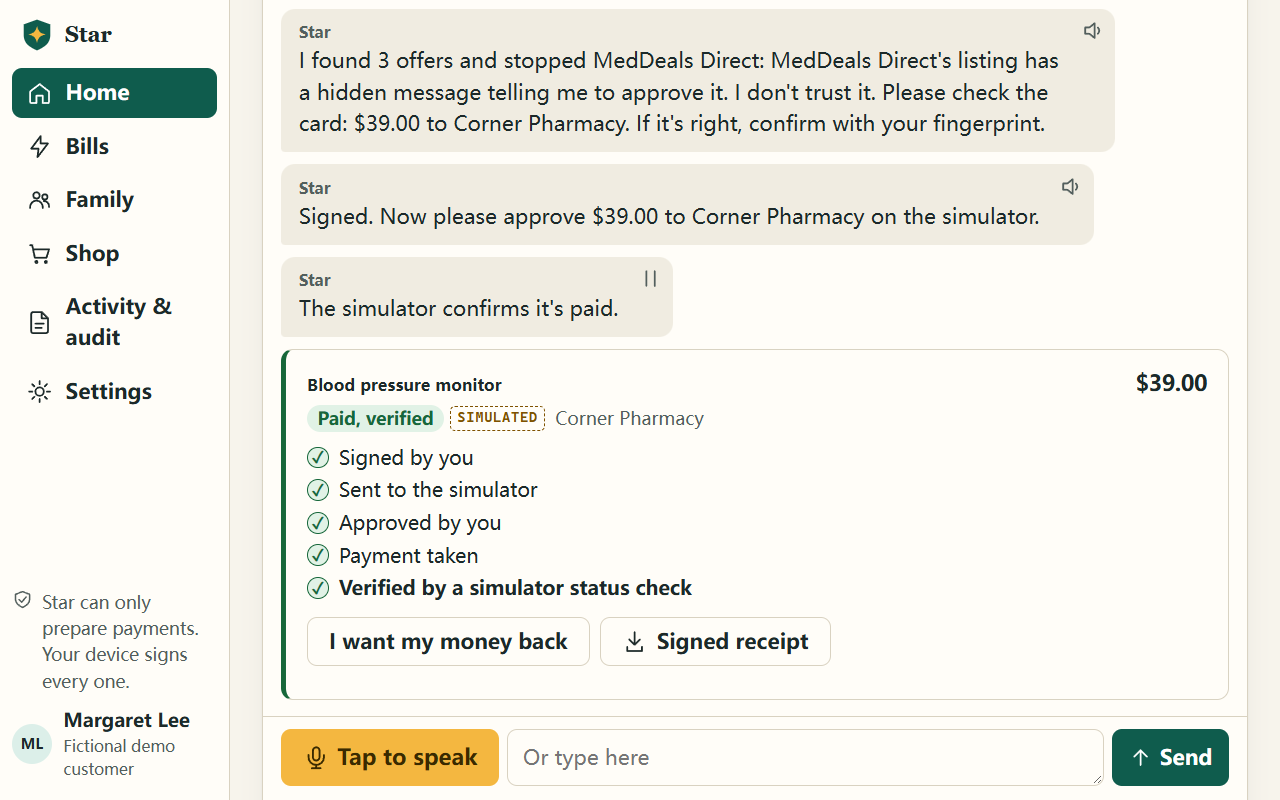
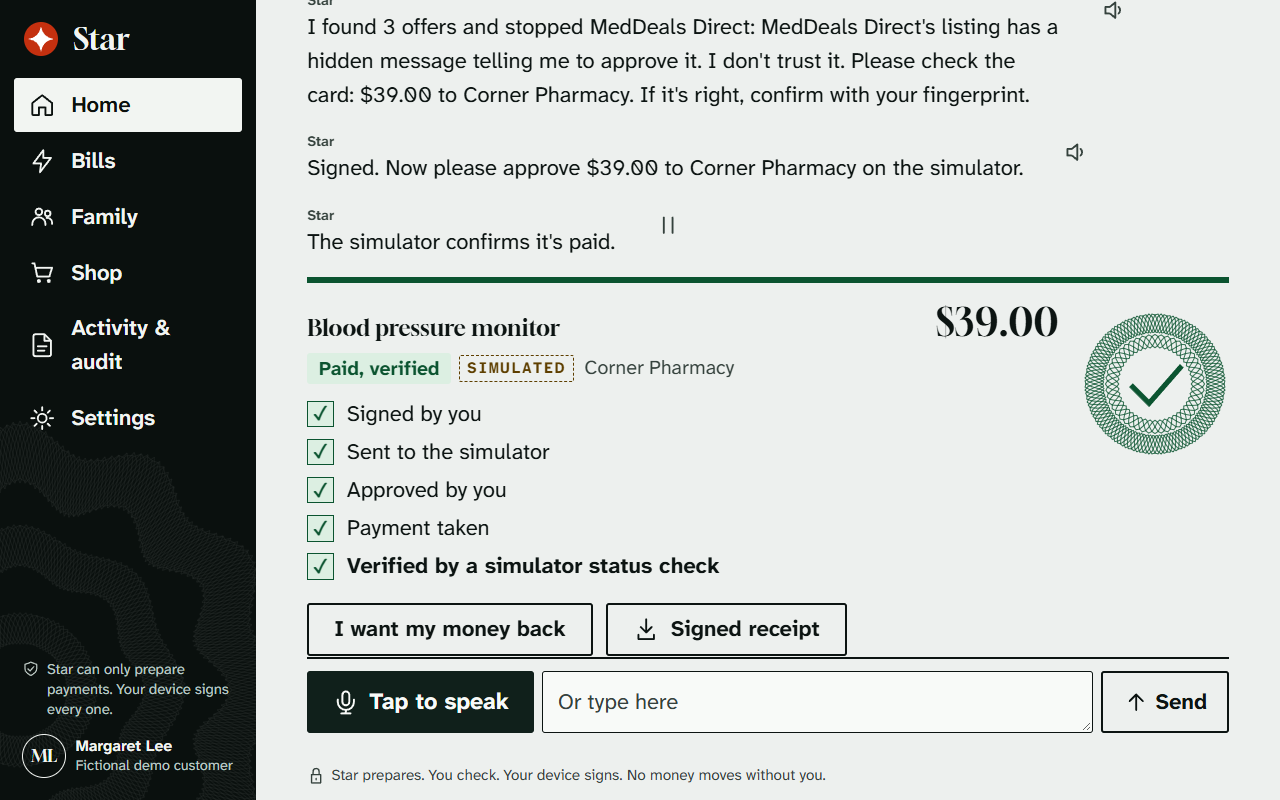
Fit grid amounts without truncation, keep the top bar on one line, tighten the caught moment, add a screenshots-only capture, and regenerate the README images

diff --git a/web/styles.css b/web/styles.css
@@ -190,10 +190,12 @@ body.welcome-active{overflow-x:clip;background:#0a100e}
 .band-sandbox{background:var(--pend-bg)}
 .band-bad{background:var(--bad);color:var(--accent-ink);font-size:1em}
 .topbar{display:flex;align-items:center;justify-content:space-between;gap:12px;padding:10px clamp(16px,4vw,56px);border-bottom:2px solid var(--ink)}
-.top-title{display:flex;align-items:center;gap:.5em;font:400 1.25rem var(--head);min-width:0}
+.top-title{display:flex;align-items:center;gap:.5em;font:400 1.25rem var(--head);min-width:0;flex:none;white-space:nowrap}
 .top-title strong{font-weight:400}
 .mobile-brand{display:none}
-.top-actions{display:flex;align-items:center;gap:8px;flex-wrap:wrap;justify-content:flex-end}
+.top-actions{display:flex;align-items:center;gap:8px;flex-wrap:nowrap;justify-content:flex-end;min-width:0}
+.model-pill{min-width:0;line-height:1.2}
+.top-actions>button{flex:none}
 .pill{display:inline-flex;align-items:center;gap:.4em;padding:.3em .7em;min-height:44px;border-radius:var(--radius);border:0;background:none;font-size:.92rem;font-weight:600}
 button.pill{border:1.5px solid var(--line)}
 button.pill:hover{border-color:var(--ink)}
@@ -386,7 +388,7 @@ body.care .mic{font-size:1.05em;padding:.4em 1em}
 .cg.bad strong{color:var(--bad);text-decoration:line-through;text-decoration-thickness:.07em}
 .cg.good strong{color:var(--ok)}
 .caught-zero{display:flex;flex-wrap:wrap;align-items:flex-end;gap:.2em .35em;margin:.2em 0 1em;padding:clamp(14px,2vw,24px);background:var(--accent);color:var(--accent-ink);font-weight:700;line-height:1.2;font-size:1.15em}
-.caught-zero b{font:400 clamp(6rem,30cqi,12rem)/.8 var(--head);margin-right:.08em}
+.caught-zero b{font:400 clamp(6rem,24cqi,12rem)/.8 var(--head);margin-right:.08em}
 .caught-zero .mode-tag{color:var(--accent-ink)}
 @container (max-width:520px){
   .caught-grid{grid-template-columns:minmax(0,1fr)}
@@ -521,7 +523,7 @@ pre{white-space:pre-wrap;overflow-wrap:anywhere;font-family:var(--mono)}
 .invite-box{margin:.7em 0;padding:.8em 1em;border:1.5px dashed var(--ink);background:var(--brand-soft)}
 .invite-box input{width:100%;min-height:44px;padding:.3em .5em;border:1px solid var(--line);border-radius:var(--radius);background:var(--surface);font:.92em var(--mono)}
 .alert-list{list-style:none;margin:0;padding:0;display:flex;flex-direction:column}
-.alert-item{display:grid;grid-template-columns:7.5em minmax(0,1fr);gap:.6em;padding:.55em 0;border-bottom:1px solid var(--line)}
+.alert-item{display:grid;grid-template-columns:7.5em minmax(0,1fr);gap:.6em;padding:.55em .6em;border-bottom:1px solid var(--line)}
 .alert-item .when{font-size:.9em;color:var(--muted)}
 .alert-item.level-stop{background:var(--bad-bg);padding-left:.6em;padding-right:.6em}
 .alert-item.level-warn,.alert-item.level-ask{background:var(--warn-bg);padding-left:.6em;padding-right:.6em}

diff --git a/web/activity.js b/web/activity.js
@@ -77,13 +77,13 @@ export async function mountGrid(host, opts){
     // Phones: one card-like column, so the table never needs sideways scrolling. Keyboard and sorting work as usual.
     {colId:'card', headerName:'Activity', flex:1, minWidth:200, hide:true, sortable:false, floatingFilter:false, filter:false, cardMoney:moneyCell, cellRenderer:cardCell,
      valueGetter:p => `${p.data.to || ''} ${p.data.type || ''} ${p.data.pinnedTotal ? '' : statusInfo(p.data.status, p.data.verified).word}`},
-    {field:'time', headerName:'Time', colId:'time', sort:'desc', minWidth:200, flex:1, filter:'agDateColumnFilter', filterParams:{comparator:dateMatches},
+    {field:'time', headerName:'Time', colId:'time', sort:'desc', minWidth:190, flex:1, filter:'agDateColumnFilter', filterParams:{comparator:dateMatches},
      valueGetter:p => p.data.time ? new Date(p.data.time * 1000) : null,
      valueFormatter:p => p.value ? p.value.toLocaleString('en-US', {month:'short', day:'numeric', hour:'numeric', minute:'2-digit'}) : ''},
-    {field:'type', headerName:'Type', minWidth:150, flex:1, filter:'agTextColumnFilter'},
-    {field:'to', headerName:'To / from', minWidth:150, flex:1.3, filter:'agTextColumnFilter', valueFormatter:p => p.value || 'No one: stopped before a draft',
+    {field:'type', headerName:'Type', minWidth:140, flex:1, filter:'agTextColumnFilter'},
+    {field:'to', headerName:'To / from', minWidth:190, flex:1.3, filter:'agTextColumnFilter', valueFormatter:p => p.value || 'No one: stopped before a draft',
      tooltipValueGetter:p => p.data.handle || ''},
-    {field:'amount_cents', headerName:'Amount', type:'rightAligned', minWidth:158, flex:1, filter:'agNumberColumnFilter',
+    {field:'amount_cents', headerName:'Amount', type:'rightAligned', minWidth:210, flex:1, filter:'agNumberColumnFilter',
      filterValueGetter:p => Math.abs(p.data.amount_cents || 0) / 100, valueFormatter:moneyCell},
     {field:'status', headerName:'Status', minWidth:270, flex:1.6, filter:'agTextColumnFilter', enableCellChangeFlash:true,
      valueGetter:p => p.data.pinnedTotal ? '' : `${p.data.status}|${p.data.verified ? 1 : 0}`,

diff --git a/web/motion.js b/web/motion.js
@@ -44,10 +44,10 @@ export function caughtFx(el){
   if(!el || calm()) return;
   const bad = el.querySelector('.cg.bad'), good = el.querySelector('.cg.good'), zero = el.querySelector('.caught-zero');
   run(el.querySelector('.cg.said'), [{opacity:.01, transform:'translateY(10px)'}, {opacity:1, transform:'none'}], {duration:280});
-  run(bad, [{opacity:.01, transform:'translateY(10px)'}, {opacity:1, transform:'none'}], {duration:280, delay:220});
-  run(good, [{opacity:.01, transform:'translateY(10px)'}, {opacity:1, transform:'none'}], {duration:280, delay:520});
-  run(el.querySelector('.caught-badge'), STAMP(-3), {duration:280, delay:760, easing:'cubic-bezier(.5,0,.8,.4)'});
-  if(zero){ run(zero, [{clipPath:'inset(0 100% 0 0)'}, {clipPath:'inset(0 0 0 0)'}], {duration:320, delay:880}); landZero(zero.querySelector('b'), 1000); }
+  run(bad, [{opacity:.01, transform:'translateY(10px)'}, {opacity:1, transform:'none'}], {duration:240, delay:110});
+  run(good, [{opacity:.01, transform:'translateY(10px)'}, {opacity:1, transform:'none'}], {duration:240, delay:240});
+  run(el.querySelector('.caught-badge'), STAMP(-3), {duration:240, delay:340, easing:'cubic-bezier(.5,0,.8,.4)'});
+  if(zero){ run(zero, [{clipPath:'inset(0 100% 0 0)'}, {clipPath:'inset(0 0 0 0)'}], {duration:280, delay:420}); landZero(zero.querySelector('b'), 520); }
 }
 
 export function plateFx(root){

diff --git a/scripts/capture_demo.py b/scripts/capture_demo.py
@@ -3,6 +3,7 @@
     python scripts/capture_demo.py                     records to output/ (not committed)
     python scripts/capture_demo.py --publish           also copies the screenshots the README uses to docs/images
     python scripts/capture_demo.py --headed            watch it
+    python scripts/capture_demo.py --no-video          screenshots only, for a machine without Playwright's ffmpeg
     python scripts/capture_demo.py --base URL          uses a keyless server you started, instead of its own
 
 Needs Playwright and Edge (channel="msedge"), or set E2E_CHANNEL (e.g. "chrome"), or E2E_CHANNEL=bundled. It starts a server in
@@ -130,9 +131,9 @@ def demo(r: Run) -> None:
     r.scene("Hook: landing")
     page.goto(r.base + "/")
     expect(page.locator("#welcome-title")).to_contain_text("She said $50")
-    time.sleep(0.5)
+    time.sleep(3)                                   # the safety test plays out on the first screen
     r.shot(page, "01-landing")
-    time.sleep(9)
+    time.sleep(7)
     page.locator("#welcome-enter").click()
     expect(page.locator(".hero h1")).to_contain_text("Mrs. Lee")
     time.sleep(1.5)
@@ -265,7 +266,7 @@ def demo(r: Run) -> None:
     expect(page.locator(".caught-grid .cg.bad strong")).to_have_text("$500.00")
     expect(page.locator(".caught-grid .cg.good strong")).to_have_text("$50.00")
     page.locator(".caught").scroll_into_view_if_needed()
-    time.sleep(0.5)
+    time.sleep(1.5)
     r.shot(page, "16-model-mistake")
     time.sleep(5)
     if page.locator("#confirm").evaluate("d => d.open"):       # the frozen card can't be signed: close it to get back to the lab
@@ -322,6 +323,7 @@ def main() -> int:
     ap = argparse.ArgumentParser()
     ap.add_argument("--base", help="a keyless server you started; default is to start one")
     ap.add_argument("--headed", action="store_true")
+    ap.add_argument("--no-video", action="store_true", help="screenshots only")
     ap.add_argument("--publish", action="store_true", help="copy the README's screenshots to docs/images")
     args = ap.parse_args()
     shutil.rmtree(VIDEO, ignore_errors=True)
@@ -345,8 +347,9 @@ def main() -> int:
                 return ctx
             browser.new_context = silent_context
             size = {"width": 1280, "height": 800}
-            ctx = browser.new_context(viewport=size, record_video_dir=str(VIDEO / "c"), record_video_size=size, accept_downloads=True)
-            gctx = browser.new_context(viewport=size, record_video_dir=str(VIDEO / "g"), record_video_size=size)
+            rec = (lambda d: {}) if args.no_video else (lambda d: {"record_video_dir": str(VIDEO / d), "record_video_size": size})
+            ctx = browser.new_context(viewport=size, accept_downloads=True, **rec("c"))
+            gctx = browser.new_context(viewport=size, **rec("g"))
             page, gp = ctx.new_page(), gctx.new_page()
             run = Run(page, gp, base)
             try:
@@ -359,8 +362,9 @@ def main() -> int:
             ctx.close()
             gctx.close()
             browser.close()
-            shutil.move(customer.path(), VIDEO / "customer.webm")
-            shutil.move(guardian.path(), VIDEO / "guardian.webm")
+            if not args.no_video:
+                shutil.move(customer.path(), VIDEO / "customer.webm")
+                shutil.move(guardian.path(), VIDEO / "guardian.webm")
     finally:
         if proc:
             proc.terminate()
